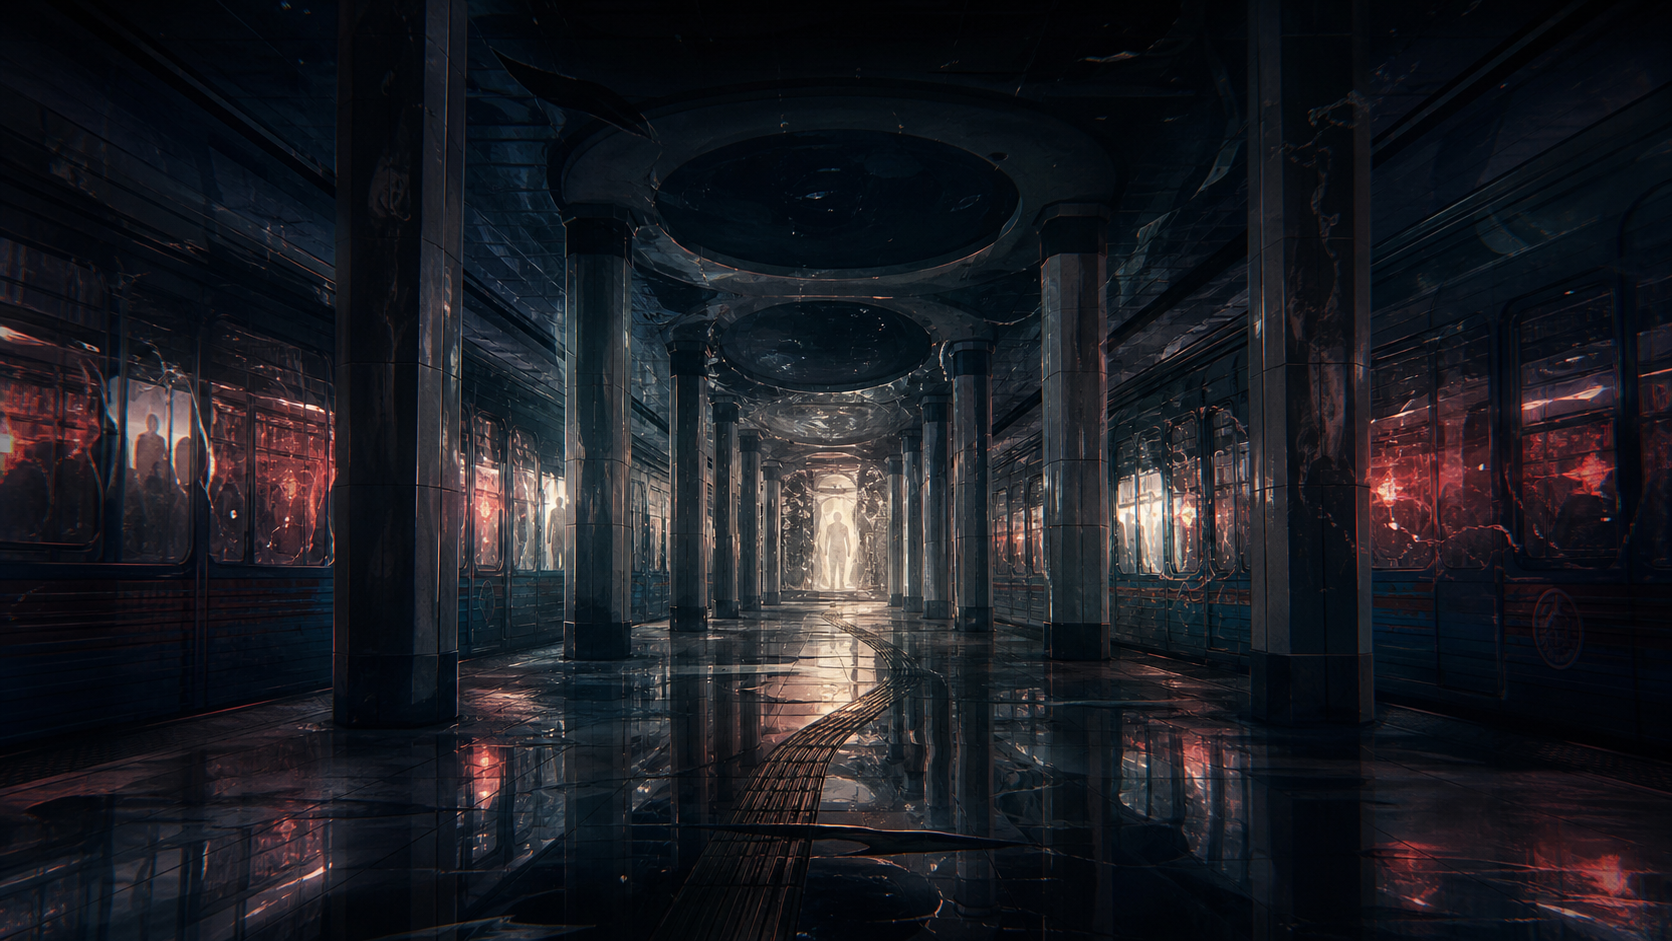
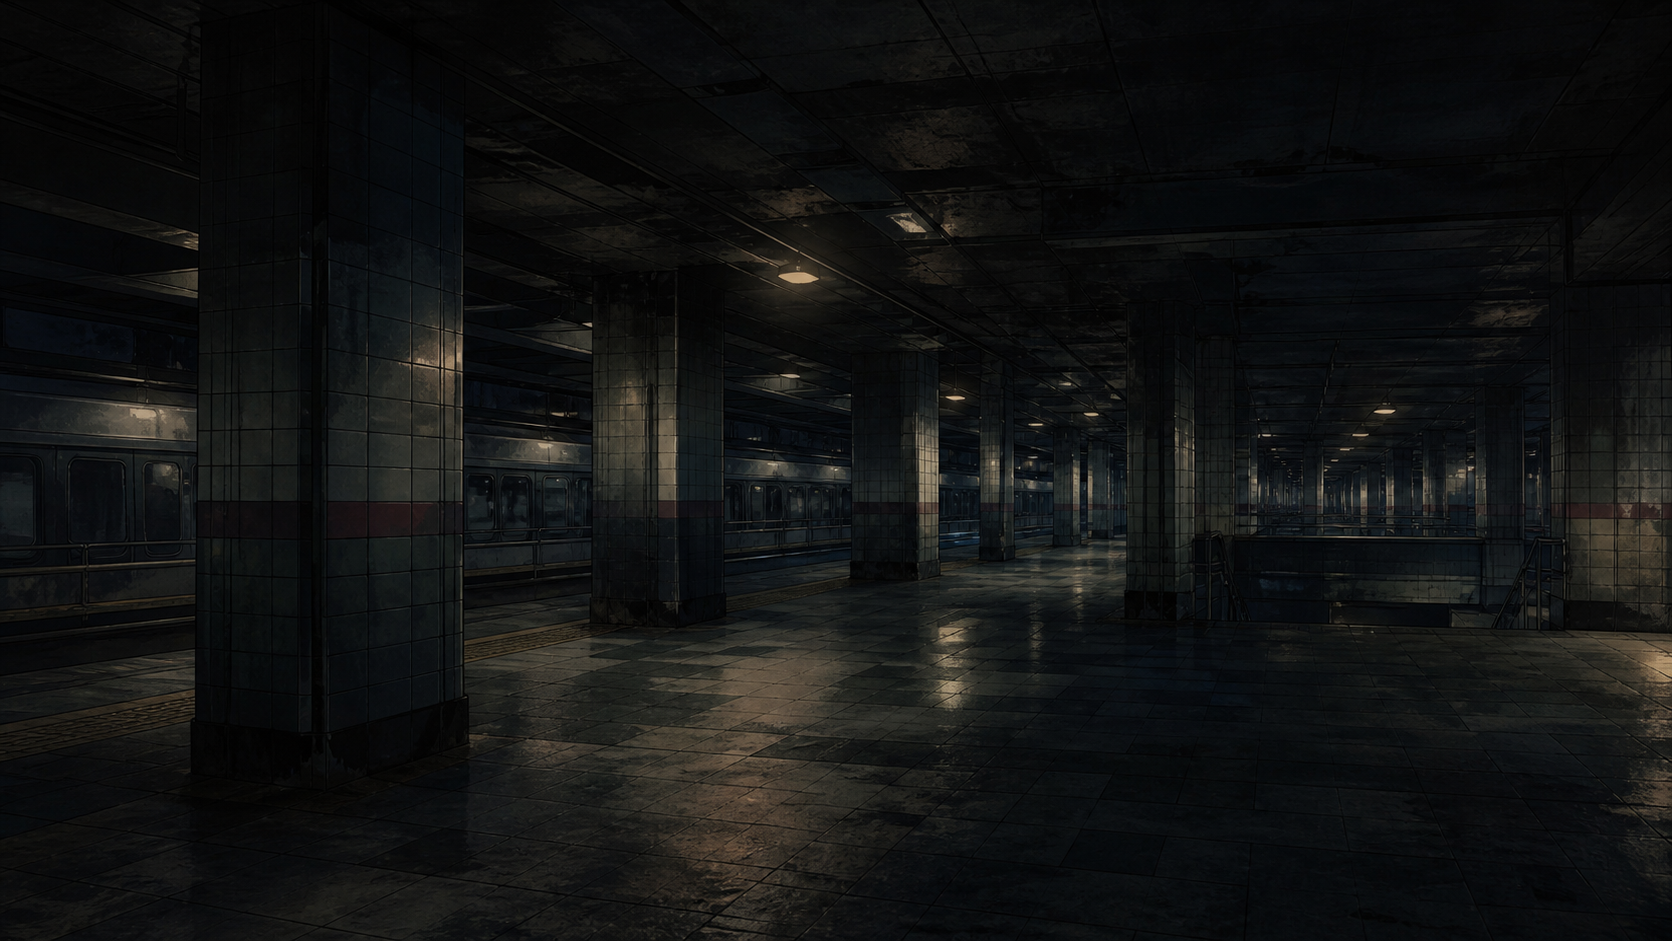
assets: promote approved M01 recovery visuals

diff --git a/tests/test_approved_visual_anchor_registry.py b/tests/test_approved_visual_anchor_registry.py
@@ -66,6 +66,17 @@ class ApprovedVisualAnchorRegistryTests(unittest.TestCase):
     def test_anchor_approval_does_not_grant_unrelated_product_asset_approval(self) -> None:
         manifest = (ROOT / "ASSET_MANIFEST.yml").read_text(encoding="utf-8")
         self.assertNotIn("kwon_narae.png", manifest)
+        self.assertNotIn("현재 PROJECT_ASSET_APPROVED 자산은 0건", manifest)
+        self.assertIn('asset_id: "M01-RECOVERY-BACKGROUND-001"', manifest)
+        self.assertIn(
+            'source_path: "docs/visual/candidates/M01_RECOVERY_BACKGROUND_ADAPT_01.png"',
+            manifest,
+        )
+        self.assertIn('asset_id: "M01-ANOMALY-BC-001"', manifest)
+        self.assertIn(
+            'source_path: "docs/visual/candidates/M01_ANOMALY_BC_ADAPT_01.png"',
+            manifest,
+        )
         self.assertIn('asset_id: "M01-ANOMALY-D-001"', manifest)
         self.assertIn('source_path: "docs/visual/candidates/M01_ANOMALY_D_ADAPT_01.png"', manifest)
         self.assertIn('replacement_requires_approval: true', manifest)

diff --git a/docs/CURRENT_VISUAL_ASSET_CONSUMER_CHECKLIST.md b/docs/CURRENT_VISUAL_ASSET_CONSUMER_CHECKLIST.md
@@ -4,7 +4,7 @@
 > Updated: `2026-08-26`
 > Decision: `D-2026-08-26-RUNTIME-CONSUMER-FIRST-VISUAL-ASSET-GATE`
 > Scope: planning / visual asset requirement inventory
-> Product asset approval: `0 CURRENT ROOT-MANIFEST ENTRIES`
+> Product asset approval: `3 CURRENT ROOT-MANIFEST ENTRIES (M01 Recovery background, B/C, D)`
 > Runtime visual validation: `NOT_RUN`
 > Human QA: `NOT_RUN`
 
@@ -51,9 +51,9 @@ actual consumer
 |---|---|---|---|---|
 | `IMG-M01-01` | Main Menu backdrop + Dialogue `ArtLayer/Background` + dialogue location preview | `assets/backgrounds/afterlife_entrance.png` | `REUSE_REVIEW` | 없으면 Main Menu identity/background와 오프닝 현장 preview가 사라진다. 같은 파일을 여러 surface가 재사용한다. |
 | `IMG-M01-02` | Investigation `ArtLayer/Background` + `LocationPreview` | `assets/backgrounds/afterlife_platform.png` | `REUSE_REVIEW` | 없으면 조사 장소/관측 공간이 사라진다. 별도 location-card 이미지를 만들지 않는다. |
-| `IMG-M01-03` | Recovery `ArtLayer/Background` | `assets/backgrounds/afterlife_recovery.png` | `REPLACE_REQUIRED / USER_APPROVED_VISUAL_CANDIDATE / PRODUCT_ASSET_PROMOTION_PENDING` | `M01_RECOVERY_BACKGROUND_ADAPT_01`은 배경 전용 후보로 승인됐다. 현행 PNG 교체와 Godot 연결은 별도 Gate다. |
-| `IMG-M01-04` | Recovery `AnomalyVisual` B/C | `assets/anomalies/cutouts/afterlife_b_cutout.png` with `assets/anomalies/afterlife_b.png` fallback | `REPLACE_REQUIRED / USER_APPROVED_VISUAL_CANDIDATE / PRODUCT_ASSET_PROMOTION_PENDING` | `M01_ANOMALY_BC_ADAPT_01`은 투명 현현 후보로 승인됐다. 현행 컷아웃 교체와 Godot 연결은 별도 Gate다. |
-| `IMG-M01-05` | Recovery `AnomalyVisual` D | `assets/anomalies/cutouts/afterlife_d_cutout.png` with `assets/anomalies/afterlife_d.png` fallback | `REPLACE_REQUIRED / USER_APPROVED_VISUAL_CANDIDATE / PRODUCT_ASSET_PROMOTION_PENDING` | `M01_ANOMALY_D_ADAPT_01`은 단일 실루엣의 투명 고위험 현현 후보로 승인됐다. 현행 컷아웃 교체와 Godot 연결은 별도 Gate다. |
+| `IMG-M01-03` | Recovery `ArtLayer/Background` | `assets/backgrounds/afterlife_recovery.png` | `PROJECT_ASSET_APPROVED / IMPLEMENTED / RUNTIME_AND_HUMAN_QA_PENDING` | `M01_RECOVERY_BACKGROUND_ADAPT_01`의 exact bytes가 canonical PNG를 교체했다. Scene/catalog 연결은 기존 route를 재사용하며, import·runtime/Human evidence는 별도 Gate다. |
+| `IMG-M01-04` | Recovery `AnomalyVisual` B/C | `assets/anomalies/cutouts/afterlife_b_cutout.png` with `assets/anomalies/afterlife_b.png` fallback | `PROJECT_ASSET_APPROVED / IMPLEMENTED / RUNTIME_AND_HUMAN_QA_PENDING` | `M01_ANOMALY_BC_ADAPT_01`의 exact bytes가 canonical cutout을 교체했다. Scene/catalog/fallback은 변경하지 않으며, import·runtime/Human evidence는 별도 Gate다. |
+| `IMG-M01-05` | Recovery `AnomalyVisual` D | `assets/anomalies/cutouts/afterlife_d_cutout.png` with `assets/anomalies/afterlife_d.png` fallback | `PROJECT_ASSET_APPROVED / IMPLEMENTED / RUNTIME_VALIDATED_1280 / HUMAN_QA_PENDING` | `M01_ANOMALY_D_ADAPT_01`은 canonical cutout으로 승격됐고 1280×720 live check가 통과했다. 1920×1080 capture와 Human QA는 별도 Gate다. |
 | `IMG-M01-06` | Investigation `ManualSurface: TextureRect` | `assets/ui/afterlife/manual_book_frame.png` | `REUSE_REVIEW` | 실제 live Godot text 뒤의 textless surface. |
 | `IMG-M01-07` | route-restore minigame full-screen surface | `assets/ui/afterlife/generated/afterlife_metal_panel_v1.png` | `REUSE_REVIEW` | 저승역 최종 노선 복원 runtime surface. |
 
@@ -163,12 +163,12 @@ Current status: `REUSE_REVIEW`.
 
 ### REUSE/REPLACE review order
 
-1. `IMG-M01-03` Afterlife Recovery background — `REPLACE_REQUIRED`; candidate result approved, product promotion 별도 대기.
-2. `IMG-M01-04` Afterlife anomaly B/C — candidate result approved; product promotion 별도 대기.
-3. `IMG-M01-05` Afterlife anomaly D — candidate result approved; product promotion 별도 대기.
-4. `IMG-M01-02` Afterlife Investigation background.
-5. `IMG-M01-01` Afterlife Entrance / Dialogue background.
-6. `IMG-M04-02` approved M04 Investigation Anchor vs current `red_crossroads` consumer.
+1. `IMG-M01-03` Afterlife Recovery background — `PROJECT_ASSET_APPROVED`; import/1280×720/1920×1080 runtime and Human QA evidence pending.
+2. `IMG-M01-04` Afterlife anomaly B/C — `PROJECT_ASSET_APPROVED`; import/1280×720/1920×1080 runtime and Human QA evidence pending.
+3. `IMG-M01-05` Afterlife anomaly D — `PROJECT_ASSET_APPROVED`; 1280×720 runtime evidence recorded, 1920×1080 and Human QA pending.
+4. `IMG-M04-02` approved M04 Investigation Anchor vs current `red_crossroads` consumer.
+5. `IMG-M01-02` Afterlife Investigation background.
+6. `IMG-M01-01` Afterlife Entrance / Dialogue background.
 7. M04 Recovery/anomaly consumers.
 8. Character/support/contact assets only when a current playable-slice consumer shows a visual gap.
 
@@ -189,7 +189,7 @@ No batch generation from checklist gaps.
 
 ## 10. Authority / evidence ceiling
 
-Root `ASSET_MANIFEST.yml` is the current tracked product-asset authority and currently has `assets: []`.
+Root `ASSET_MANIFEST.yml` is the current tracked product-asset authority and has three current approved M01 entries: Recovery background, B/C anomaly cutout, and D anomaly cutout.
 
 Legacy `assets/ASSET_MANIFEST.json`, tracked PNG presence, `.import` files, existing runtime wiring, and old QA labels do **not** independently grant `PROJECT_ASSET_APPROVED`.
 

diff --git a/docs/CURRENT_VISUAL_WORK_ORDER.md b/docs/CURRENT_VISUAL_WORK_ORDER.md
@@ -196,8 +196,8 @@ actual Scene / Texture consumer
 11. Composite Result mockup 1단계/2단계 — USER_APPROVED_REFERENCE; 3단계 — IN_REVIEW
 12. runtime-consumer-first image gate — APPROVED
 13. actual visual consumer inventory — COMPLETE_FOR_CURRENT_CORE_SURFACES
-14. `IMG-M01-03 afterlife_recovery.png` pixel compare + one background-only candidate result approval — COMPLETE_AS_VISUAL_CANDIDATE; no product asset promotion
-15. M01 anomaly B/C and D pixel compare — COMPLETE; B/C와 D 각각의 투명 후보가 사용자 결과 승인을 받았고 product promotion은 별도 대기
+14. `IMG-M01-03 afterlife_recovery.png` pixel compare + one background-only candidate result approval → product asset promotion — `PROJECT_ASSET_APPROVED / IMPLEMENTED`; runtime/Human evidence pending
+15. M01 anomaly B/C and D pixel compare → product asset promotion — B/C `PROJECT_ASSET_APPROVED / IMPLEMENTED`, D `PROJECT_ASSET_APPROVED / IMPLEMENTED / RUNTIME_VALIDATED_1280`; remaining evidence stays separate
 16. M04 approved Investigation Anchor vs actual `red_crossroads` consumer comparison — `ADAPT_CANDIDATE` selected
 17. `M04_INVESTIGATION_BACKGROUND_ADAPT_01` one-image adaptation + user result approval — COMPLETE_AS_VISUAL_CANDIDATE
 18. M04 product-reference promotion + rights/provenance + 1280×720/1920×1080 runtime 검증
@@ -232,9 +232,8 @@ actual Scene / Texture consumer
 ### Pending / not run
 - Composite Result 3단계 result approval
 - remaining runtime PNG pixel-quality comparisons against latest approved visual references
-- M01-03 product-reference asset promotion + rights/provenance + runtime readability / Human QA
-- M01 B/C product-reference asset promotion + rights/provenance + runtime readability / Human QA
-- M01 D product-reference asset promotion + rights/provenance + runtime readability / Human QA
+- M01-03 and M01 B/C Godot import plus 1280×720/1920×1080 runtime readability / Human QA
+- M01 D 1920×1080 runtime capture / Human QA
 - M01 actual Human QA / new-player validation
 - M04 product-reference asset 승격
 - layer/reuse production source 검증
@@ -249,7 +248,7 @@ actual Scene / Texture consumer
 
 ## 8. Asset authority warning
 
-Root `ASSET_MANIFEST.yml`가 current tracked product-asset authority이며 현재 `assets: []`다.
+Root `ASSET_MANIFEST.yml`가 current tracked product-asset authority이며, 현재 승인된 M01 Recovery background·B/C cutout·D cutout의 3개 entry를 가진다.
 
 `assets/ASSET_MANIFEST.json`은 `LEGACY_MIGRATION_PENDING_NON_AUTHORITY`다. 과거 `stage=final`, QA 문구, tracked PNG, `.import`, runtime wiring은 existence/provenance/history evidence일 수 있지만 `PROJECT_ASSET_APPROVED`를 부여하지 않는다.
 

diff --git a/docs/IMAGE_ASSET_WORKFLOW.md b/docs/IMAGE_ASSET_WORKFLOW.md
@@ -10,7 +10,7 @@
 
 GPT는 프로젝트 정본과 레퍼런스를 바탕으로 기획 중 탐색 이미지·목업과 기획 종료 실사용 후보를 생성한다. Codex는 승인된 후보의 파일 규격·manifest·Godot import·실제 화면 적용을 담당한다. DeepSeek는 명시적 대량 초안 위임에서만 보조하며 이미지 생성의 기본 소유자가 아니다.
 
-현재 제품 자산 승격은 fail-closed다. `71_이미지기획_생성목록`·`72_이미지검수_승인로그`와 GitHub 정본에서 같은 자산이 `PROJECT_ASSET_APPROVED`로 승인되고, 루트 `ASSET_MANIFEST.yml`에 승인·의미·권리·용도가 기록된 뒤에만 tracked 제품 자산 승격을 허용한다. 현재 루트 manifest의 승인 자산 목록은 비어 있으며 자동 생성·자동 승격·자동 교체를 하지 않는다.
+현재 제품 자산 승격은 fail-closed다. 승인 원장과 GitHub 정본에서 같은 자산이 `PROJECT_ASSET_APPROVED`로 확인되고, 루트 `ASSET_MANIFEST.yml`에 승인·의미·권리·용도가 기록된 뒤에만 tracked 제품 자산 승격을 허용한다. 현재 root manifest에는 M01 Recovery background, B/C anomaly cutout, D anomaly cutout의 3개 승인 entry가 있으며, 이 밖의 후보는 자동 생성·자동 승격·자동 교체를 하지 않는다.
 
 원격 작업 환경에서 프로젝트 로컬 `.asset-vault/`를 읽지 못하면 `VAULT_LOCAL_STATE_UNVERIFIED`를 유지한다. 로컬 후보 존재를 과거 대화·이전 manifest·Repo 상태만으로 추정하지 않는다.
 

diff --git a/docs/decisions/D-2026-08-27-M01-RECOVERY-VISUALS-PRODUCT-PROMOTION.md b/docs/decisions/D-2026-08-27-M01-RECOVERY-VISUALS-PRODUCT-PROMOTION.md
@@ -1,0 +1,24 @@
+# D-2026-08-27 — M01 Recovery Visual Assets Product Promotion
+
+## Status
+
+`APPROVED / IMPLEMENTED / RUNTIME_AND_HUMAN_QA_PENDING`
+
+## Decision
+
+Promote the two user-approved M01 Recovery candidates to their existing canonical runtime paths only:
+
+- `assets/backgrounds/afterlife_recovery.png`
+- `assets/anomalies/cutouts/afterlife_b_cutout.png`
+
+## Scope boundary
+
+- Existing consumers: `battle_scene.tscn -> ArtLayer/Background` and `battle_scene.tscn -> CinematicStage/AnomalyPanel/Content/AnomalyVisual`.
+- No scene, script, data, catalog, fallback, UI layout, or other asset mutation.
[2 lines of base64/hex data omitted]
+- Godot import and automated catalog verification are required in this promotion. Live 1280×720/1920×1080 capture and Human visual/accessibility QA remain pending.
+
+## Merge safeguard
+
+The two product paths remain protected. Their approval manifest lists exactly these two paths and records the sole decision owner's explicit authorization. CI still validates the protected baseline, exact allowlist, manifest schema, generated views, and all other project contracts; it does not require a second GitHub identity for this single-owner project.

diff --git a/docs/visual/candidates/M01_RECOVERY_BACKGROUND_ADAPT_01.md b/docs/visual/candidates/M01_RECOVERY_BACKGROUND_ADAPT_01.md
@@ -2,7 +2,7 @@
 
 ## Status
 
-`USER_APPROVED_VISUAL_CANDIDATE / PRODUCT_ASSET_PROMOTION_PENDING`
+`PROJECT_ASSET_APPROVED / IMPLEMENTED / RUNTIME_AND_HUMAN_QA_PENDING`
 
 This record owns the one-image visual candidate created after the direct pixel review of the current `afterlife_recovery.png` Recovery background consumer.
 
@@ -23,4 +23,4 @@ The candidate is a textless, characterless M01 Recovery environment. Its repeate
 
 ## Approval boundary
 
-User result approval confirms this visual candidate and requires durable storage in this repository and Project Notion. It does not replace `assets/backgrounds/afterlife_recovery.png`, add a Godot reference, grant `PROJECT_ASSET_APPROVED`, or pass runtime readability and Human QA. Those gates remain separately authorized work.
+The sole decision owner authorized product promotion under GitHub Issue #250. The exact candidate bytes now replace only `assets/backgrounds/afterlife_recovery.png`; the existing Godot catalog, scene route, and anomaly/fallback assets remain unchanged. Godot import and automated catalog checks are required by this promotion. Live 1280×720/1920×1080 capture and Human QA remain separate pending gates.

diff --git a/docs/visual/candidates/M01_ANOMALY_BC_ADAPT_01.md b/docs/visual/candidates/M01_ANOMALY_BC_ADAPT_01.md
@@ -2,7 +2,7 @@
 
 ## Status
 
-`USER_APPROVED_VISUAL_CANDIDATE / PRODUCT_ASSET_PROMOTION_PENDING`
+`PROJECT_ASSET_APPROVED / IMPLEMENTED / RUNTIME_AND_HUMAN_QA_PENDING`
 
 This record owns the one-image transparent anomaly candidate for M01 Recovery risk stages B/C.
 
@@ -25,4 +25,4 @@ The candidate depicts an unnamed station-attendant-like humanoid whose uniform d
 
 ## Approval boundary
 
-User result approval confirms this visual candidate and requires durable storage in this repository and Project Notion. It does not replace `assets/anomalies/cutouts/afterlife_b_cutout.png`, change the asset catalog, grant `PROJECT_ASSET_APPROVED`, or pass runtime readability and Human QA. Those gates remain separately authorized work.
+The sole decision owner authorized product promotion under GitHub Issue #250. The exact candidate bytes now replace only `assets/anomalies/cutouts/afterlife_b_cutout.png`; the existing Godot catalog, scene route, and full-image fallback remain unchanged. Godot import and automated catalog checks are required by this promotion. Live 1280×720/1920×1080 capture and Human QA remain separate pending gates.

diff --git a/docs/visual/IMG_M01_03_AFTERLIFE_RECOVERY_BACKGROUND_REQUIREMENT.md b/docs/visual/IMG_M01_03_AFTERLIFE_RECOVERY_BACKGROUND_REQUIREMENT.md
@@ -1,6 +1,6 @@
 # IMG-M01-03 · Afterlife Recovery Background · Consumer Requirement
 
-Status: `REPLACE_REQUIRED / USER_APPROVED_VISUAL_CANDIDATE / PRODUCT_ASSET_PROMOTION_PENDING`
+Status: `PROJECT_ASSET_APPROVED / IMPLEMENTED / RUNTIME_AND_HUMAN_QA_PENDING`
 Decision: `D-2026-08-26-RUNTIME-CONSUMER-FIRST-VISUAL-ASSET-GATE`
 Consumer: `scenes/battle_scene.tscn -> ArtLayer/Background`
 Current file: `assets/backgrounds/afterlife_recovery.png`

diff --git a/docs/visual/IMG_M01_RECOVERY_ANOMALY_STATE_FAMILY_REQUIREMENT.md b/docs/visual/IMG_M01_RECOVERY_ANOMALY_STATE_FAMILY_REQUIREMENT.md
@@ -1,6 +1,6 @@
 # IMG-M01-04/05 · Afterlife Recovery Anomaly · State-Family Consumer Requirement
 
-Status: `REUSE_REVIEW / PIXEL_COMPARE_PENDING`
+Status: `PROJECT_ASSET_APPROVED / IMPLEMENTED / RUNTIME_AND_HUMAN_QA_PENDING`
 Decision: `D-2026-08-26-RUNTIME-CONSUMER-FIRST-VISUAL-ASSET-GATE`
 Consumer: `scenes/battle_scene.tscn -> AnomalyVisual`
 Runtime selector: `ScenePresentation.apply_anomaly(texture_rect, risk)`
